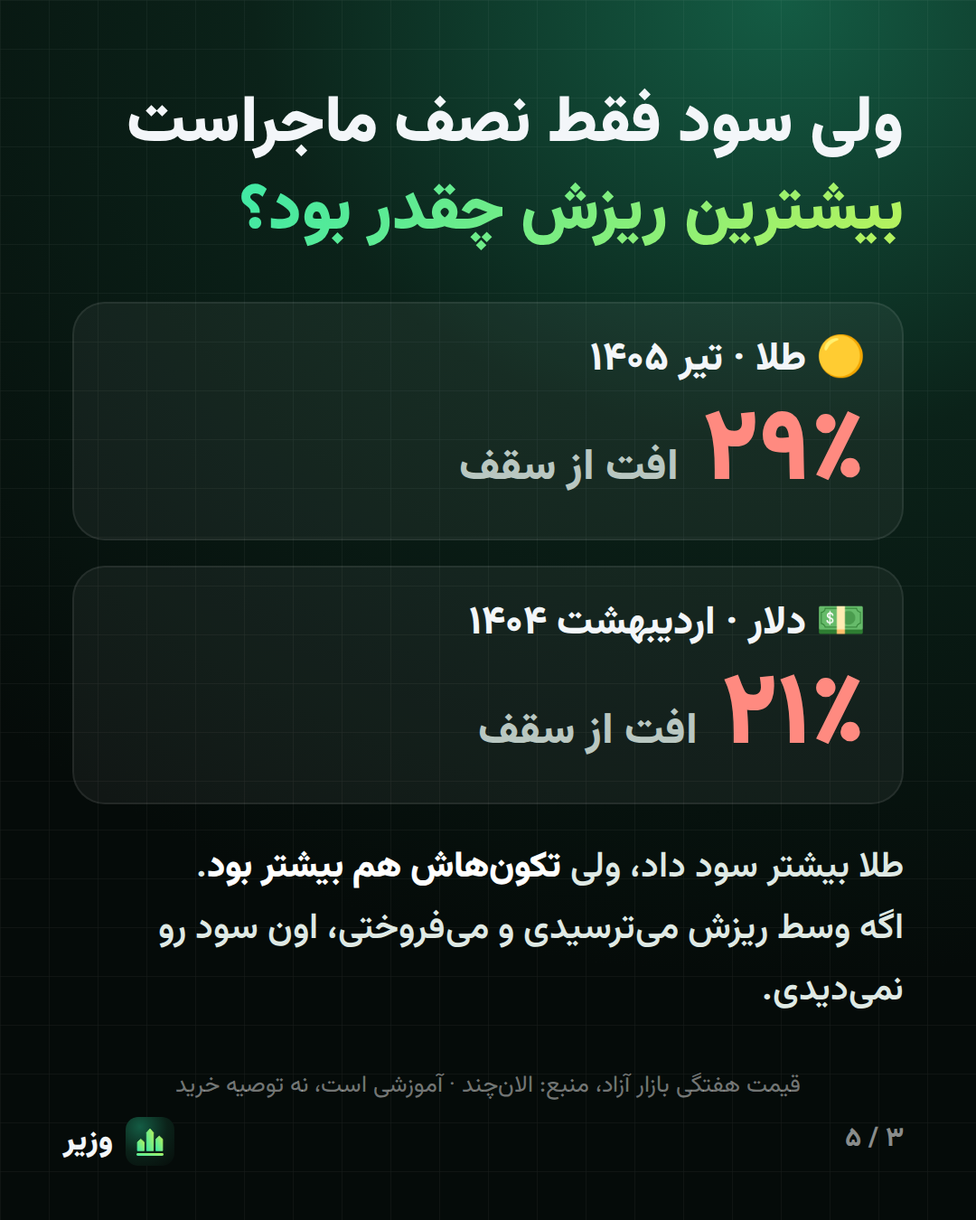
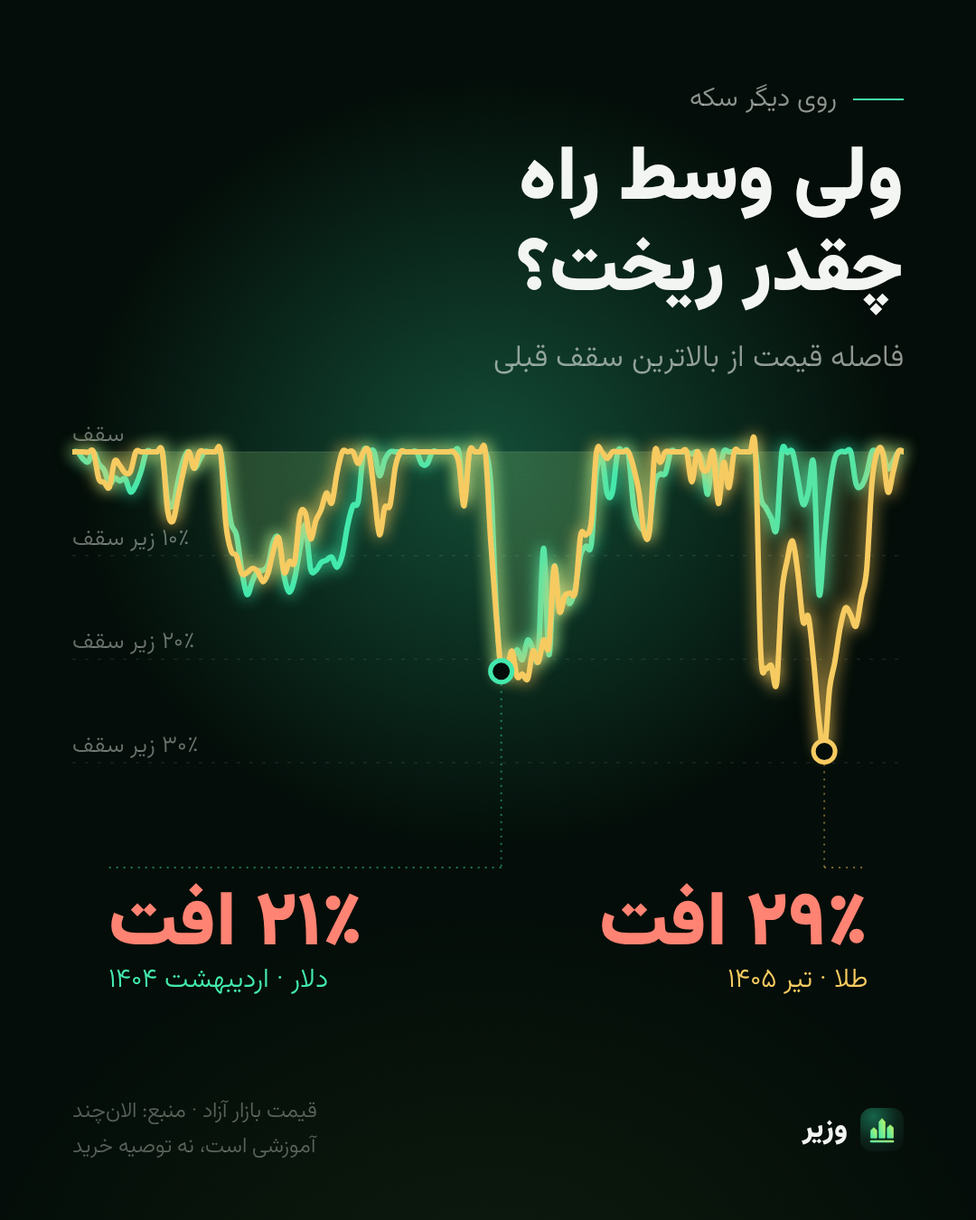
Carousel redesign: one focal element per slide (Night Ledger)
Visual language in store/social/DESIGN.md. Cover with a lit isometric
gold bar and oversized type; real weekly growth and drawdown charts as
the heroes of slides 2 and 3; hairline-separated cost comparison; quiet
closing slide. Fixes RTL text anchors inside the SVG charts.

Claude-Session: https://claude.ai/code/session_01SR2xSZYn8hRsVn3fdorWWW

diff --git a/store/social/carousel-gold-vs-dollar.html b/store/social/carousel-gold-vs-dollar.html
@@ -4,144 +4,248 @@
 <meta charset="utf-8">
 <title>کاروسل طلا یا دلار</title>
 <!--
-  کاروسل اینستاگرام ۵ اسلایدی (۱۰۸۰×۱۳۵۰) با قالب ثابت وزیر. ?s=1 تا ۵ هر اسلاید.
-  عددها واقعیاند (قیمت هفتگی بازار آزاد، منبع الانچند، مهر ۱۴۰۲ تا مهر ۱۴۰۵).
+  کاروسل ۵ اسلایدی (۱۰۸۰×۱۳۵۰) با زبان بصری «طلای شب» (DESIGN.md). ?s=1 تا ۵.
+  نمودارها از قیمت واقعی هفتگی ساخته میشوند (../video/reel-100m.data.js، منبع الانچند).
 -->
 <style>
   @font-face { font-family: Vazir; src: url("../../app/static/fonts/Vazirmatn.woff2") format("woff2"); font-weight: 100 900; }
+  :root { --m: 80px; --ink: #f2f5f1; --mute: rgba(242,245,241,.55); --faint: rgba(242,245,241,.32);
+          --em: #3ee8a6; --lime: #b8f35c; --red: #ff7a6b; }
   * { box-sizing: border-box; margin: 0; padding: 0; }
   html, body { width: 1080px; height: 1350px; overflow: hidden; }
-  body { font-family: Vazir, sans-serif; color: #f3f6f9; position: relative;
-         background: radial-gradient(120% 80% at 80% 0%, #145c44 0%, #0b2219 45%, #050b09 100%); }
-  body::before { content: ""; position: absolute; inset: 0; opacity: .07;
-                 background-image: linear-gradient(rgba(255,255,255,.6) 1px, transparent 1px), linear-gradient(90deg, rgba(255,255,255,.6) 1px, transparent 1px);
-                 background-size: 54px 54px; }
-  .slide { position: absolute; inset: 0; padding: 90px 80px; display: none; }
+  body { font-family: Vazir, sans-serif; color: var(--ink); position: relative; background: #030c08; }
+  .light { position: absolute; inset: 0; background:
+           radial-gradient(60% 45% at 50% 38%, rgba(30,120,86,.55), transparent 70%),
+           radial-gradient(90% 60% at 50% 110%, rgba(184,243,92,.06), transparent 60%); }
+  .grain { position: absolute; inset: 0; opacity: .16; mix-blend-mode: overlay; pointer-events: none; }
+  .slide { position: absolute; inset: 0; display: none; }
   .slide.on { display: block; }
-  .acc { background: linear-gradient(120deg, #3ee8a6, #b8f35c); -webkit-background-clip: text; background-clip: text; color: transparent; }
-  .gold { background: linear-gradient(120deg, #ffe7a3, #f5b82e 55%, #ffd36a); -webkit-background-clip: text; background-clip: text; color: transparent; }
-  .usd { color: #3ee8a6; }
-  h1 { font-size: 104px; font-weight: 900; line-height: 1.3; }
-  h2 { font-size: 72px; font-weight: 900; line-height: 1.35; }
-  .sub { font-size: 44px; color: #b9c7c1; font-weight: 600; margin-top: 18px; line-height: 1.6; }
-  .brand { position: absolute; left: 70px; bottom: 60px; display: flex; align-items: center; gap: 14px; font-size: 34px; font-weight: 900; }
-  .brand img { width: 54px; height: 54px; border-radius: 14px; }
-  .page { position: absolute; right: 80px; bottom: 66px; font-size: 30px; color: rgba(255,255,255,.55); font-weight: 700; }
-  .swipe { position: absolute; right: 0; top: 50%; width: 70px; height: 140px; margin-top: -70px; border-radius: 70px 0 0 70px;
-           background: rgba(62,232,166,.18); display: grid; place-items: center; font-size: 54px; color: #3ee8a6; }
-  .src { position: absolute; left: 80px; right: 80px; bottom: 128px; font-size: 26px; color: rgba(255,255,255,.45); text-align: center; }
+  .gold { background: linear-gradient(175deg, #fff3cf 0%, #f6c75a 38%, #c58a17 70%, #ffe29a 100%); -webkit-background-clip: text; background-clip: text; color: transparent; }
+  .em { background: linear-gradient(150deg, #8fffd2, #3ee8a6 45%, #b8f35c); -webkit-background-clip: text; background-clip: text; color: transparent; }
+  .kicker { position: absolute; right: var(--m); top: 86px; font-size: 30px; font-weight: 300; letter-spacing: .5px; color: var(--mute); display: flex; gap: 18px; align-items: center; }
+  .kicker i { width: 56px; height: 2px; background: var(--em); display: inline-block; }
+  .foot { position: absolute; left: var(--m); right: var(--m); bottom: 62px; display: flex; justify-content: space-between; align-items: center; }
+  .brand { display: flex; align-items: center; gap: 14px; font-size: 32px; font-weight: 800; letter-spacing: .5px; }
+  .brand img { width: 48px; height: 48px; border-radius: 13px; }
+  .meta { font-size: 24px; font-weight: 300; color: var(--faint); text-align: left; line-height: 1.6; }
 
-  /* اسلاید ۱: جلد با تصویر مرکزی (شمش طلا و دسته دلار با CSS) */
-  .hero { position: absolute; left: 0; right: 0; top: 520px; height: 640px; }
-  .halo { position: absolute; left: 50%; top: 40px; width: 620px; height: 620px; margin-left: -310px; border-radius: 50%;
-          background: radial-gradient(circle, rgba(62,232,166,.32), transparent 65%); }
-  .vs { position: absolute; left: 50%; top: 250px; width: 150px; height: 150px; margin-left: -75px; border-radius: 50%; z-index: 5;
-        background: #050b09; border: 4px solid #3ee8a6; display: grid; place-items: center; font-size: 56px; font-weight: 900; color: #3ee8a6;
-        box-shadow: 0 0 60px rgba(62,232,166,.5); direction: ltr; }
-  .ingot { position: absolute; width: 360px; height: 150px; transform: perspective(700px) rotateX(48deg) rotateZ(-14deg); }
-  .ingot .top { position: absolute; inset: 0; border-radius: 22px; clip-path: polygon(9% 0, 91% 0, 100% 100%, 0 100%);
-                background: linear-gradient(135deg, #fff4c6, #f7c64b 40%, #c98a12 75%, #ffe08a); box-shadow: inset 0 0 0 4px rgba(255,255,255,.25); }
-  .ingot .side { position: absolute; left: 0; right: 0; top: 100%; height: 52px; clip-path: polygon(0 0, 100% 0, 97% 100%, 3% 100%);
-                 background: linear-gradient(180deg, #b47a0d, #6e4705); }
-  .ingot b { position: absolute; inset: 0; display: grid; place-items: center; font-size: 44px; font-weight: 900; color: rgba(120,78,6,.75); letter-spacing: 4px; direction: ltr; }
-  .bill { position: absolute; width: 380px; height: 176px; border-radius: 18px; transform: rotate(var(--r));
-          background: linear-gradient(135deg, #c9f7dc, #6fd3a0 60%, #3aa673); border: 6px solid #e9fff2;
-          box-shadow: 0 30px 60px rgba(0,0,0,.45); display: grid; place-items: center; font-size: 90px; font-weight: 900; color: rgba(14,80,50,.55); direction: ltr; }
-  .bill::before { content: ""; position: absolute; width: 112px; height: 112px; border-radius: 50%; border: 6px solid rgba(14,80,50,.35); }
+  /* ۱ جلد */
+  .cover-title { position: absolute; right: var(--m); left: var(--m); bottom: 250px; }
+  .cover-title .l1 { font-size: 220px; font-weight: 900; line-height: .95; letter-spacing: -4px; }
+  .cover-title .l2 { font-size: 70px; font-weight: 200; color: var(--mute); margin: 18px 0 6px; }
+  .cover-title .l3 { font-size: 220px; font-weight: 900; line-height: .95; letter-spacing: -4px; }
+  .cover-art { position: absolute; left: 10px; top: 150px; width: 720px; height: 720px; }
+  .swipe { position: absolute; left: var(--m); bottom: 270px; font-size: 28px; font-weight: 300; color: var(--mute); }
 
-  /* اسلاید ۲ و ۳: مقایسه */
-  .cmp { margin-top: 50px; display: grid; gap: 28px; }
-  .row { background: rgba(255,255,255,.05); border: 2px solid rgba(255,255,255,.08); border-radius: 36px; padding: 28px 40px; }
-  .row .lbl { font-size: 44px; font-weight: 800; display: flex; align-items: center; gap: 18px; }
-  .row .big { font-size: 112px; font-weight: 900; line-height: 1.15; margin-top: 6px; }
-  .row .big small { font-size: 48px; font-weight: 800; color: #b9c7c1; }
-  .bar { height: 26px; border-radius: 13px; margin-top: 18px; background: rgba(255,255,255,.08); overflow: hidden; }
-  .bar i { display: block; height: 100%; border-radius: 13px; }
-  .note { margin-top: 36px; font-size: 40px; line-height: 1.7; color: #dfe9e4; font-weight: 600; }
-  .note b { color: #fff; }
-  .chip { display: inline-block; padding: 10px 26px; border-radius: 30px; background: rgba(62,232,166,.15); color: #3ee8a6; font-size: 36px; font-weight: 800; }
+  /* ۲ و ۳ نمودار */
+  .head { position: absolute; right: var(--m); left: var(--m); top: 150px; }
+  .head h2 { font-size: 84px; font-weight: 900; line-height: 1.2; letter-spacing: -1px; }
+  .head p { font-size: 34px; font-weight: 300; color: var(--mute); margin-top: 18px; }
+  svg.chart { position: absolute; left: 0; top: 420px; width: 1080px; height: 720px; overflow: visible; }
 
-  /* اسلاید ۴: جدول ویژگیها */
-  .table { margin-top: 44px; display: grid; grid-template-columns: 1.2fr 1fr 1fr; gap: 0; border-radius: 32px; overflow: hidden; border: 2px solid rgba(255,255,255,.1); }
-  .table div { padding: 22px 24px; font-size: 34px; font-weight: 700; border-bottom: 2px solid rgba(255,255,255,.07); line-height: 1.5; }
-  .table .h { background: rgba(255,255,255,.06); font-weight: 900; font-size: 40px; }
-  .table .k { color: #b9c7c1; }
+  /* ۴ هزینه پنهان */
+  .pair { position: absolute; right: var(--m); left: var(--m); top: 470px; }
+  .pair .item { padding: 46px 0; border-top: 1px solid rgba(242,245,241,.14); display: grid; grid-template-columns: 210px 1fr; gap: 30px; align-items: baseline; }
+  .pair .item:last-child { border-bottom: 1px solid rgba(242,245,241,.14); }
+  .pair .who { font-size: 64px; font-weight: 900; }
+  .pair .what { font-size: 50px; font-weight: 700; line-height: 1.45; }
+  .pair .what small { display: block; font-size: 32px; font-weight: 300; color: var(--mute); margin-top: 10px; }
 
-  /* اسلاید ۵: جمعبندی و دعوت */
-  .list { margin-top: 44px; display: grid; gap: 30px; }
-  .list div { font-size: 44px; line-height: 1.6; font-weight: 700; padding-right: 64px; position: relative; }
-  .list div::before { content: "✦"; position: absolute; right: 0; top: 0; color: #3ee8a6; }
-  .cta { margin-top: 56px; padding: 44px; border-radius: 40px; background: linear-gradient(135deg, rgba(62,232,166,.22), rgba(184,243,92,.12));
-         border: 2px solid rgba(62,232,166,.45); text-align: center; }
-  .cta strong { display: block; font-size: 52px; font-weight: 900; line-height: 1.5; }
-  .cta span { display: block; margin-top: 12px; font-size: 54px; font-weight: 900; color: #3ee8a6; direction: ltr; }
+  /* ۵ پایان */
+  .end { position: absolute; right: var(--m); left: var(--m); top: 300px; }
+  .end h2 { font-size: 128px; font-weight: 900; line-height: 1.1; letter-spacing: -2px; }
+  .end p { font-size: 40px; font-weight: 300; color: var(--mute); margin-top: 34px; line-height: 1.75; max-width: 860px; }
+  .end p b { color: var(--ink); font-weight: 700; }
+  .seal { position: absolute; right: var(--m); left: var(--m); bottom: 190px; display: flex; align-items: center; gap: 34px;
+          padding-top: 44px; border-top: 1px solid rgba(242,245,241,.14); }
+  .seal img { width: 132px; height: 132px; border-radius: 32px; box-shadow: 0 0 80px rgba(62,232,166,.35); }
+  .seal strong { display: block; font-size: 44px; font-weight: 800; line-height: 1.45; }
+  .seal span { display: block; font-size: 46px; font-weight: 900; direction: ltr; text-align: right; margin-top: 6px; }
 </style>
 </head>
 <body>
+<div class="light"></div>
 
+<!-- ۱ جلد -->
 <section class="slide" data-s="1">
-  <span class="chip">مقایسه با عدد واقعی</span>
-  <h1 style="margin-top:36px"><span class="gold">طلا</span> بخریم<br>یا <span class="acc">دلار</span>؟</h1>
-  <p class="sub">کدوم گزینه برای پسانداز بهتره؟</p>
-  <div class="hero">
-    <div class="halo"></div>
-    <div class="bill" style="left:110px;top:150px;--r:-12deg">$</div>
-    <div class="bill" style="left:140px;top:250px;--r:-4deg">$</div>
-    <div class="ingot" style="left:590px;top:150px"><div class="top"><b>999.9</b></div><div class="side"></div></div>
-    <div class="ingot" style="left:560px;top:300px"><div class="top"><b>999.9</b></div><div class="side"></div></div>
-    <div class="vs">VS</div>
+  <div class="kicker"><i></i>۳ سال، عدد واقعی</div>
+  <svg class="cover-art" viewBox="0 0 620 620">
+    <defs>
+      <linearGradient id="gTop" x1="0" y1="0" x2="1" y2="1"><stop offset="0" stop-color="#fff5d6"/><stop offset=".45" stop-color="#f7cd63"/><stop offset="1" stop-color="#d89b22"/></linearGradient>
+      <linearGradient id="gFront" x1="0" y1="0" x2="0" y2="1"><stop offset="0" stop-color="#e3a52a"/><stop offset="1" stop-color="#8a5a08"/></linearGradient>
+      <linearGradient id="gSide" x1="0" y1="0" x2="1" y2="0"><stop offset="0" stop-color="#b57b10"/><stop offset="1" stop-color="#5e3d05"/></linearGradient>
+      <linearGradient id="gShine" x1="0" y1="0" x2="1" y2="0"><stop offset="0" stop-color="#fff" stop-opacity="0"/><stop offset=".5" stop-color="#fff" stop-opacity=".75"/><stop offset="1" stop-color="#fff" stop-opacity="0"/></linearGradient>
+      <radialGradient id="gGlow"><stop offset="0" stop-color="#f6c75a" stop-opacity=".45"/><stop offset="1" stop-color="#f6c75a" stop-opacity="0"/></radialGradient>
+      <radialGradient id="gShadow"><stop offset="0" stop-color="#000" stop-opacity=".7"/><stop offset="1" stop-color="#000" stop-opacity="0"/></radialGradient>
+      <filter id="soft"><feGaussianBlur stdDeviation="2"/></filter>
+    </defs>
+    <circle cx="310" cy="300" r="290" fill="url(#gGlow)"/>
+    <ellipse cx="310" cy="470" rx="250" ry="40" fill="url(#gShadow)"/>
+    <!-- اسکناس سبز پشت شمش -->
+    <g transform="translate(330 120) rotate(14)" opacity=".92">
+      <rect x="0" y="0" width="250" height="120" rx="12" fill="#0f3d2c" stroke="#3ee8a6" stroke-opacity=".7" stroke-width="2.5"/>
+      <rect x="12" y="12" width="226" height="96" rx="8" fill="none" stroke="#3ee8a6" stroke-opacity=".3" stroke-width="1.5"/>
+      <circle cx="125" cy="60" r="34" fill="none" stroke="#3ee8a6" stroke-opacity=".55" stroke-width="2.5"/>
+      <text x="125" y="78" text-anchor="middle" font-family="Vazir" font-weight="900" font-size="48" fill="#3ee8a6" fill-opacity=".85">$</text>
+    </g>
+    <!-- شمش ایزومتریک: رو، جلو، کنار -->
+    <polygon points="150,300 330,210 490,290 310,380" fill="url(#gTop)"/>
+    <polygon points="150,300 310,380 310,450 170,380" fill="url(#gFront)"/>
+    <polygon points="310,380 490,290 470,360 310,450" fill="url(#gSide)"/>
+    <polyline points="150,300 330,210 490,290" fill="none" stroke="#fff8e0" stroke-opacity=".8" stroke-width="2.5"/>
+    <polyline points="150,300 310,380 490,290" fill="none" stroke="#fff2c4" stroke-opacity=".55" stroke-width="2"/>
+    <line x1="310" y1="380" x2="310" y2="450" stroke="#ffe39a" stroke-opacity=".35" stroke-width="2"/>
+    <g transform="translate(320 295) skewX(-30) scale(1 .52)" opacity=".55">
+      <rect x="-92" y="-44" width="184" height="88" rx="10" fill="none" stroke="#8a5a08" stroke-width="5"/>
+      <text x="0" y="16" text-anchor="middle" font-family="Vazir" font-weight="900" font-size="46" fill="#8a5a08" direction="ltr">999.9</text>
+    </g>
+    <polygon points="230,262 290,232 330,252 270,282" fill="url(#gShine)" opacity=".65" filter="url(#soft)"/>
+  </svg>
+  <div class="cover-title">
+    <div class="l1 gold">طلا</div>
+    <div class="l2">یا</div>
+    <div class="l3 em">دلار؟</div>
   </div>
-  <div class="swipe">‹</div>
+  <div class="swipe">ورق بزن ←</div>
 </section>
 
+<!-- ۲ رشد -->
 <section class="slide" data-s="2">
-  <h2>۳ سال اخیر<br><span class="acc">کدوم بیشتر رشد کرد؟</span></h2>
-  <div class="cmp">
-    <div class="row"><div class="lbl">🟡 طلای ۱۸ عیار</div><div class="big gold">۱۱٫۸ <small>برابر</small></div><div class="bar"><i style="width:100%;background:linear-gradient(90deg,#d99a1e,#ffd36a)"></i></div></div>
-    <div class="row"><div class="lbl">💵 دلار</div><div class="big usd">۵٫۴ <small>برابر</small></div><div class="bar"><i style="width:46%;background:linear-gradient(90deg,#1f9d6b,#3ee8a6)"></i></div></div>
-  </div>
-  <p class="note">مهر ۱۴۰۲ تا مهر ۱۴۰۵. ولی جالب اینجاست:<br>توی <b>یک سال اخیر</b> هر دو دقیقاً <b>۲٫۳ برابر</b> شدن.</p>
+  <div class="kicker"><i></i>مهر ۱۴۰۲ تا مهر ۱۴۰۵</div>
+  <div class="head"><h2>هر ۱ تومن<br>چند تومن شد؟</h2><p>ارزش هر تومانِ خریدهشده، هفته به هفته</p></div>
+  <svg class="chart" id="growth" viewBox="0 0 1080 720"></svg>
 </section>
 
+<!-- ۳ ریزش -->
 <section class="slide" data-s="3">
-  <h2>ولی سود فقط نصف ماجراست<br><span class="acc">بیشترین ریزش چقدر بود؟</span></h2>
-  <div class="cmp">
-    <div class="row"><div class="lbl">🟡 طلا · تیر ۱۴۰۵</div><div class="big" style="color:#ff8a80">۲۹٪ <small>افت از سقف</small></div></div>
-    <div class="row"><div class="lbl">💵 دلار · اردیبهشت ۱۴۰۴</div><div class="big" style="color:#ff8a80">۲۱٪ <small>افت از سقف</small></div></div>
-  </div>
-  <p class="note">طلا بیشتر سود داد، ولی <b>تکونهاش هم بیشتر بود</b>.<br>اگه وسط ریزش میترسیدی و میفروختی، اون سود رو نمیدیدی.</p>
+  <div class="kicker"><i></i>روی دیگر سکه</div>
+  <div class="head"><h2>ولی وسط راه<br>چقدر ریخت؟</h2><p>فاصله قیمت از بالاترین سقف قبلی</p></div>
+  <svg class="chart" id="drawdown" viewBox="0 0 1080 720"></svg>
 </section>
 
+<!-- ۴ هزینه پنهان -->
 <section class="slide" data-s="4">
-  <h2>قبل از خرید<br><span class="acc">اینها رو هم بدون</span></h2>
-  <div class="table">
-    <div class="h"></div><div class="h"><span class="gold">طلا</span></div><div class="h usd">دلار</div>
-    <div class="k">هزینه پنهان</div><div>اجرت و مالیات طلای زینتی</div><div>فاصله قیمت خرید و فروش</div>
-    <div class="k">نقد شدن</div><div>سریع، ولی وزن و عیار بررسی میشه</div><div>سریع</div>
-    <div class="k">به چی وابستهست</div><div>دلار و انس جهانی طلا</div><div>تورم، تحریم و سیاست ارزی</div>
-    <div class="k">نگهداری</div><div>جای امن لازم داره</div><div>جای امن لازم داره</div>
+  <div class="kicker"><i></i>قبل از خرید</div>
+  <div class="head"><h2>هزینهای که<br>روی تابلو نیست</h2></div>
+  <div class="pair">
+    <div class="item"><div class="who gold">طلا</div><div class="what">اجرت و مالیات<small>در طلای زینتی؛ آبشده و سکه اجرت ساخت ندارن</small></div></div>
+    <div class="item"><div class="who em">دلار</div><div class="what">اختلاف خرید و فروش<small>صراف گرونتر میفروشه و ارزونتر میخره</small></div></div>
   </div>
-  <p class="note">برای پسانداز با طلا، <b>آبشده یا سکه</b> معمولاً هزینه کمتری از طلای زینتی دارن، چون اجرت ساخت ندارن.</p>
 </section>
 
+<!-- ۵ پایان -->
 <section class="slide" data-s="5">
-  <h2>خلاصه؟<br><span class="acc">به خودت بستگی داره</span></h2>
-  <div class="list">
-    <div>تحمل ریزش داری و افقت بلنده؟ طلا تو این ۳ سال جلو بود.</div>
-    <div>ریزشها اذیتت میکنه؟ تکون دلار کمتر بود.</div>
-    <div>خیلیها هم هر دو رو نگه میدارن تا ریسک پخش بشه.</div>
+  <div class="end">
+    <h2>جواب درست<br><span class="em">خودِ تویی.</span></h2>
+    <p>طلا این ۳ سال <b>بیشتر رشد کرد</b>، ولی <b>تکونهای بزرگتری</b> هم داشت. انتخاب به افق زمانی و تحمل تو در ریزشها بستگی داره.</p>
   </div>
-  <div class="cta"><strong>تیپ مالیت رو بشناس و<br>داراییهات رو با قیمت روز ببین</strong><span>getvazir.ir</span></div>
+  <div class="seal"><img src="../../app/static/logo.svg" alt=""><div><strong>تیپ مالیات رو بشناس؛<br>داراییهات رو با قیمت روز ببین</strong><span class="em">getvazir.ir</span></div></div>
 </section>
 
-<div class="src">قیمت هفتگی بازار آزاد، منبع: الانچند · آموزشی است، نه توصیه خرید</div>
-<div class="brand"><img src="../../app/static/logo.svg" alt="">وزیر</div>
-<div class="page" id="page"></div>
+<div class="foot">
+  <div class="brand"><img src="../../app/static/logo.svg" alt="">وزیر</div>
+  <div class="meta" id="meta">قیمت بازار آزاد · منبع: الانچند<br>آموزشی است، نه توصیه خرید</div>
+</div>
+
+<svg class="grain" width="1080" height="1350"><filter id="n"><feTurbulence type="fractalNoise" baseFrequency=".85" numOctaves="3" stitchTiles="stitch"/><feColorMatrix values="0 0 0 0 1  0 0 0 0 1  0 0 0 0 1  0 0 0 .9 0"/></filter><rect width="100%" height="100%" filter="url(#n)"/></svg>
+
+<script src="../video/reel-100m.data.js"></script>
 <script>
-  const n = Number(new URLSearchParams(location.search).get("s") || 1);
-  document.querySelector(`[data-s="${n}"]`).classList.add("on");
-  document.getElementById("page").textContent = "۱۲۳۴۵"[n - 1] + " / ۵";
-  if (n === 1) document.querySelector(".src").style.display = "none";
+const FA = "۰۱۲۳۴۵۶۷۸۹";
+const fa = (s) => String(s).replace(/\d/g, (d) => FA[d]).replace(/\./g, "٫");
+const MONTHS = ["فروردین", "اردیبهشت", "خرداد", "تیر", "مرداد", "شهریور", "مهر", "آبان", "آذر", "دی", "بهمن", "اسفند"];
+const F = window.REEL.frames;
+const NS = "http://www.w3.org/2000/svg";
+const el = (tag, attrs, parent) => { const e = document.createElementNS(NS, tag); for (const k in attrs) e.setAttribute(k, attrs[k]); parent && parent.appendChild(e); return e; };
+
+// زمان از چپ (گذشته) به راست (امروز)، مثل همه نمودارهای قیمت
+const X0 = 80, X1 = 1000;
+const xs = (i) => X0 + (X1 - X0) * i / (F.length - 1);
+function smooth(points) {  // مسیر نرم Catmull-Rom که از همه نقطههای واقعی میگذرد
+  let d = `M${points[0][0]},${points[0][1]}`;
+  for (let i = 0; i < points.length - 1; i++) {
+    const p0 = points[i - 1] || points[i], p1 = points[i], p2 = points[i + 1], p3 = points[i + 2] || p2;
+    const c1 = [p1[0] + (p2[0] - p0[0]) / 6, p1[1] + (p2[1] - p0[1]) / 6];
+    const c2 = [p2[0] - (p3[0] - p1[0]) / 6, p2[1] - (p3[1] - p1[1]) / 6];
+    d += ` C${c1},${c2},${p2}`;
+  }
+  return d;
+}
+function defs(svg) {
+  el("defs", {}, svg).innerHTML = `
+    <linearGradient id="lg" x1="0" x2="1"><stop offset="0" stop-color="#c58a17"/><stop offset="1" stop-color="#ffe29a"/></linearGradient>
+    <linearGradient id="le" x1="0" x2="1"><stop offset="0" stop-color="#1f9d6b"/><stop offset="1" stop-color="#8fffd2"/></linearGradient>
+    <linearGradient id="ag" x1="0" y1="0" x2="0" y2="1"><stop offset="0" stop-color="#f6c75a" stop-opacity=".28"/><stop offset="1" stop-color="#f6c75a" stop-opacity="0"/></linearGradient>
+    <linearGradient id="ae" x1="0" y1="0" x2="0" y2="1"><stop offset="0" stop-color="#3ee8a6" stop-opacity=".2"/><stop offset="1" stop-color="#3ee8a6" stop-opacity="0"/></linearGradient>
+    <filter id="glow" x="-20%" y="-20%" width="140%" height="140%"><feGaussianBlur stdDeviation="9" result="b"/><feMerge><feMergeNode in="b"/><feMergeNode in="SourceGraphic"/></feMerge></filter>`;
+}
+const LEFT = "end", RIGHT = "start";  // متن راستبهچپ: لبه چپ = end، لبه راست = start
+function text(svg, attrs, content) {
+  const t = el("text", { "font-family": "Vazir", ...attrs }, svg); t.textContent = content; return t;
+}
+function axisLabels(svg, y) {
+  [[0, F[0]], [F.length - 1, F[F.length - 1]]].forEach(([i, f]) => {
+    const [yy, m] = f.jalali.split("/");
+    text(svg, { x: xs(i), y, "text-anchor": i ? RIGHT : LEFT, "font-size": 28, "font-weight": 300, fill: "rgba(242,245,241,.5)" }, MONTHS[+m - 1] + " " + fa(yy));
+  });
+}
+
+// ۲: هر ۱ تومان چند تومان شد (یک محور خطی)
+(function growth() {
+  const svg = document.getElementById("growth"); defs(svg);
+  const top = 40, bot = 560, max = 12.5;
+  const ys = (v) => bot - (bot - top) * v / max;
+  [1, 5, 10].forEach((v) => {
+    el("line", { x1: X0, x2: X1, y1: ys(v), y2: ys(v), stroke: "rgba(242,245,241,.09)", "stroke-width": 1.5, "stroke-dasharray": v === 1 ? "" : "4 10" }, svg);
+    text(svg, { x: X0, y: ys(v) - 12, "text-anchor": LEFT, "font-size": 26, "font-weight": 300, fill: "rgba(242,245,241,.4)" }, fa(v) + " برابر");
+  });
+  [["usd", "le", "ae", "#3ee8a6", "دلار"], ["gold18_gram", "lg", "ag", "#f6c75a", "طلا"]].forEach(([k, line, area, dot, name]) => {
+    const pts = F.map((f, i) => [xs(i), ys(f[k] / F[0][k])]);
+    el("path", { d: smooth(pts) + ` L${X1},${bot} L${X0},${bot} Z`, fill: `url(#${area})` }, svg);
+    el("path", { d: smooth(pts), fill: "none", stroke: `url(#${line})`, "stroke-width": 7, "stroke-linecap": "round", filter: "url(#glow)" }, svg);
+    const [lx, ly] = pts[pts.length - 1];
+    el("circle", { cx: lx, cy: ly, r: 13, fill: "#030c08", stroke: dot, "stroke-width": 6 }, svg);
+    const v = F[F.length - 1][k] / F[0][k];
+    const label = text(svg, { x: lx - 34, y: ly + 30, "text-anchor": RIGHT, "font-weight": 900, "font-size": 92, fill: dot }, "");
+    el("tspan", { "font-weight": 300, "font-size": 40, fill: "rgba(242,245,241,.75)" }, label).textContent = name + " ";
+    el("tspan", {}, label).textContent = fa(v.toFixed(1)) + " برابر";
+  });
+  axisLabels(svg, bot + 52);
+})();
+
+// ۳: فاصله از سقف قبلی (زیر صفر)
+(function drawdown() {
+  const svg = document.getElementById("drawdown"); defs(svg);
+  const top = 80, bot = 470, min = -0.34;
+  const ys = (v) => top + (bot - top) * (v / min);
+  [0, -0.1, -0.2, -0.3].forEach((v) => {
+    el("line", { x1: X0, x2: X1, y1: ys(v), y2: ys(v), stroke: "rgba(242,245,241,.09)", "stroke-width": 1.5, "stroke-dasharray": v === 0 ? "" : "4 10" }, svg);
+    text(svg, { x: X0, y: ys(v) - 12, "text-anchor": LEFT, "font-size": 26, "font-weight": 300, fill: "rgba(242,245,241,.4)" }, v === 0 ? "سقف" : fa(Math.round(-v * 100)) + "٪ زیر سقف");
+  });
+  const notes = [];
+  [["usd", "#3ee8a6", "دلار"], ["gold18_gram", "#f6c75a", "طلا"]].forEach(([k, color, name]) => {
+    let peak = 0, worst = 0, wi = 0;
+    const dd = F.map((f, i) => { peak = Math.max(peak, f[k]); const d = f[k] / peak - 1; if (d < worst) { worst = d; wi = i; } return d; });
+    const pts = dd.map((d, i) => [xs(i), ys(d)]);
+    el("path", { d: smooth(pts) + ` L${X1},${ys(0)} L${X0},${ys(0)} Z`, fill: color, "fill-opacity": .1 }, svg);
+    el("path", { d: smooth(pts), fill: "none", stroke: color, "stroke-width": 6, "stroke-linejoin": "round", filter: "url(#glow)" }, svg);
+    notes.push({ x: xs(wi), y: ys(worst), worst, color, name, i: wi });
+  });
+  // برچسب کمترین نقطه هر کدام، در یک ردیف زیر نمودار تا روی هم نیفتند
+  notes.sort((a, b) => a.x - b.x).forEach((n, j) => {
+    el("circle", { cx: n.x, cy: n.y, r: 12, fill: "#030c08", stroke: n.color, "stroke-width": 5 }, svg);
+    const [yy, m] = F[n.i].jalali.split("/");
+    const tx = j === 0 ? X0 + 40 : X1 - 40, anchor = j === 0 ? LEFT : RIGHT;
+    el("line", { x1: n.x, y1: n.y + 14, x2: n.x, y2: 540, stroke: n.color, "stroke-opacity": .45, "stroke-width": 2, "stroke-dasharray": "2 6" }, svg);
+    el("line", { x1: n.x, y1: 540, x2: tx, y2: 540, stroke: n.color, "stroke-opacity": .45, "stroke-width": 2, "stroke-dasharray": "2 6" }, svg);
+    text(svg, { x: tx, y: 625, "text-anchor": anchor, "font-weight": 900, "font-size": 84, fill: "#ff7a6b" }, fa(Math.round(-n.worst * 100)) + "٪ افت");
+    text(svg, { x: tx, y: 672, "text-anchor": anchor, "font-weight": 300, "font-size": 30, fill: n.color }, n.name + " · " + MONTHS[+m - 1] + " " + fa(yy));
+  });
+})();
+
+const n = Number(new URLSearchParams(location.search).get("s") || 1);
+document.querySelector(`[data-s="${n}"]`).classList.add("on");
+if (n === 1) document.getElementById("meta").textContent = "۱ / ۵";
 </script>
 </body>
 </html>

diff --git a/store/social/DESIGN.md b/store/social/DESIGN.md
@@ -1,0 +1,29 @@
+# زبان بصری پستهای وزیر: «طلای شب» (Night Ledger)
+
+دفتر حسابداری که شبها زیر یک چراغ تنها باز میشود: سیاهیِ عمیقِ سبز، یک منبع نور نرم، و
+عددهایی که مثل فلز گرانبها برق میزنند. هر قاب فقط یک قهرمان دارد؛ یک عدد غولپیکر، یک
+منحنی واقعی، یا یک شیء که با حوصله ساخته شده. هر چیز دیگر یا سکوت است یا زمزمه. کار باید
+طوری به نظر برسد که انگار کسی ساعتها روی هر میلیمتر آن وقت گذاشته؛ دقیق، آرام و مطمئن.
+
+فضا و ترکیب: حاشیههای سخاوتمند و ثابت (۸۰ پیکسل)، یک خط افق پنهان که همه قابها به آن
+تکیه میکنند، و فضای خالی که عمداً بزرگتر از محتوا است. قهرمان قاب حدود دو سوم سطح را
+میگیرد؛ بقیه برای نفس کشیدن است. هیچ کادر و جعبهای برای جدا کردن لازم نیست؛ فاصله،
+خودش جداکننده است. همه چیز با دقت زرگری تراز میشود.
+
+رنگ و ماده: زمینه تقریباً سیاه با تهرنگ سبز زمردی و یک هاله نور، با دانهای ریز مثل کاغذ
+عکاسی تا صفحه دیجیتالِ تخت به نظر نرسد. دو فلز فقط: طلای گرم برای طلا و سبزِ زمرد تا لیمویی
+برای برند و دلار. قرمز فقط برای ضرر و فقط یک بار در هر قاب. رنگها کم، ولی هر کدام با وسواس
+کالیبره شدهاند.
+
+مقیاس و ریتم: تقابل شدید وزنها؛ تیترها و عددها در سنگینترین وزن و غولپیکر، برچسبها در
+نازکترین وزن و کوچک. یک قاب یا یک جمله دارد یا یک عدد، نه هر دو در یک اندازه. کاروسل مثل
+یک قطعه موسیقی است: جلدِ پرصدا، دو قاب داده که آرام اوج میگیرند، و پایانی که آهسته فرود
+میآید.
+
+داده بهعنوان تصویر: نمودارها از عددهای واقعی ساخته میشوند و خودشان تصویر اصلیاند؛ خطهای
+ضخیم و تمیز با درخشش ملایم، برچسب مستقیم کنار انتهای هر خط بهجای راهنما، و فقط یک محور.
+هر نقطه همان است که بازار بوده؛ زیبایی هرگز به قیمت راستی تمام نمیشود.
+
+متن: کم، ضروری و جزئی از معماری قاب. منبع و «آموزشی است، نه توصیه خرید» همیشه هست، ولی
+مثل امضای هنرمند: کوچک، کمرنگ و دقیقاً سر جایش. هیچ چیز از قاب بیرون نمیزند، هیچ چیز روی
+هم نمیافتد؛ این بخش اجرای استادانه است، نه سلیقه.
